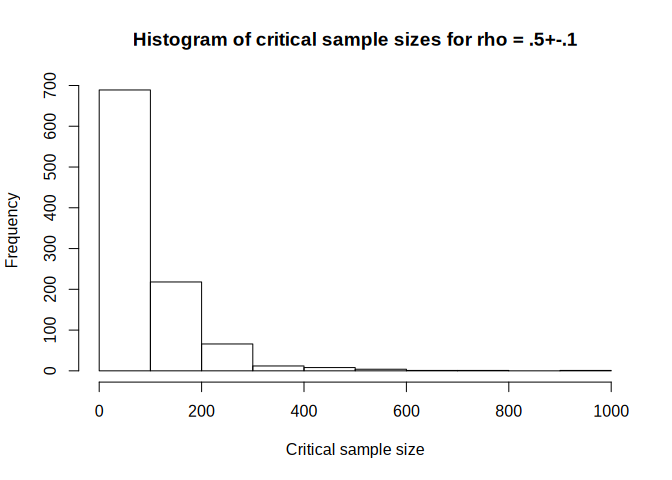
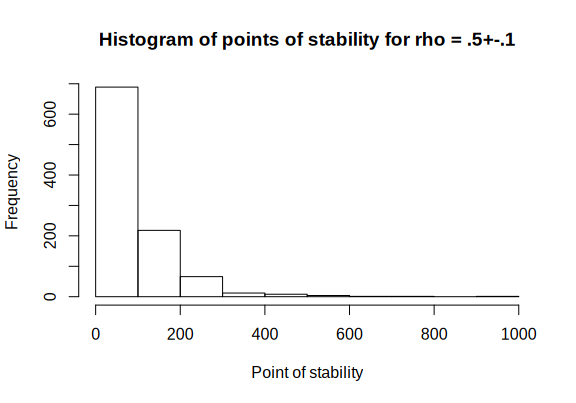
use correct link for install_github, update image in .md

Changed region(s): [[0.0625, 0.1489, 0.9375, 0.9529], [0.1562, 0.0596, 0.9062, 0.1191], [0.0, 0.3871, 0.0312, 0.5658]]

diff --git a/README.md b/README.md
@@ -40,7 +40,7 @@ You can install the development version from
 takes a couple of seconds):
 
 ``` r
-devtools::install_github("johannes-titz/passt", build_vignettes = TRUE)
+devtools::install_github("johannes-titz/fastpos", build_vignettes = TRUE)
 ```
 
 ## Using *fastpos*
@@ -117,8 +117,8 @@ pos <- simulate_pos(x_pop = pop[,1],
                     replace = T,
                     lower_limit = 0.4,
                     upper_limit = 0.6)
-hist(pos, xlim = c(0, 1000), xlab = c("Critical sample size"),
-     main = "Histogram of critical sample sizes for rho = .5+-.1")
+hist(pos, xlim = c(0, 1000), xlab = c("Point of stability"),
+     main = "Histogram of points of stability for rho = .5+-.1")
 ```
 
 <img src="man/figures/README-unnamed-chunk-4-1.png" width="100%" />
